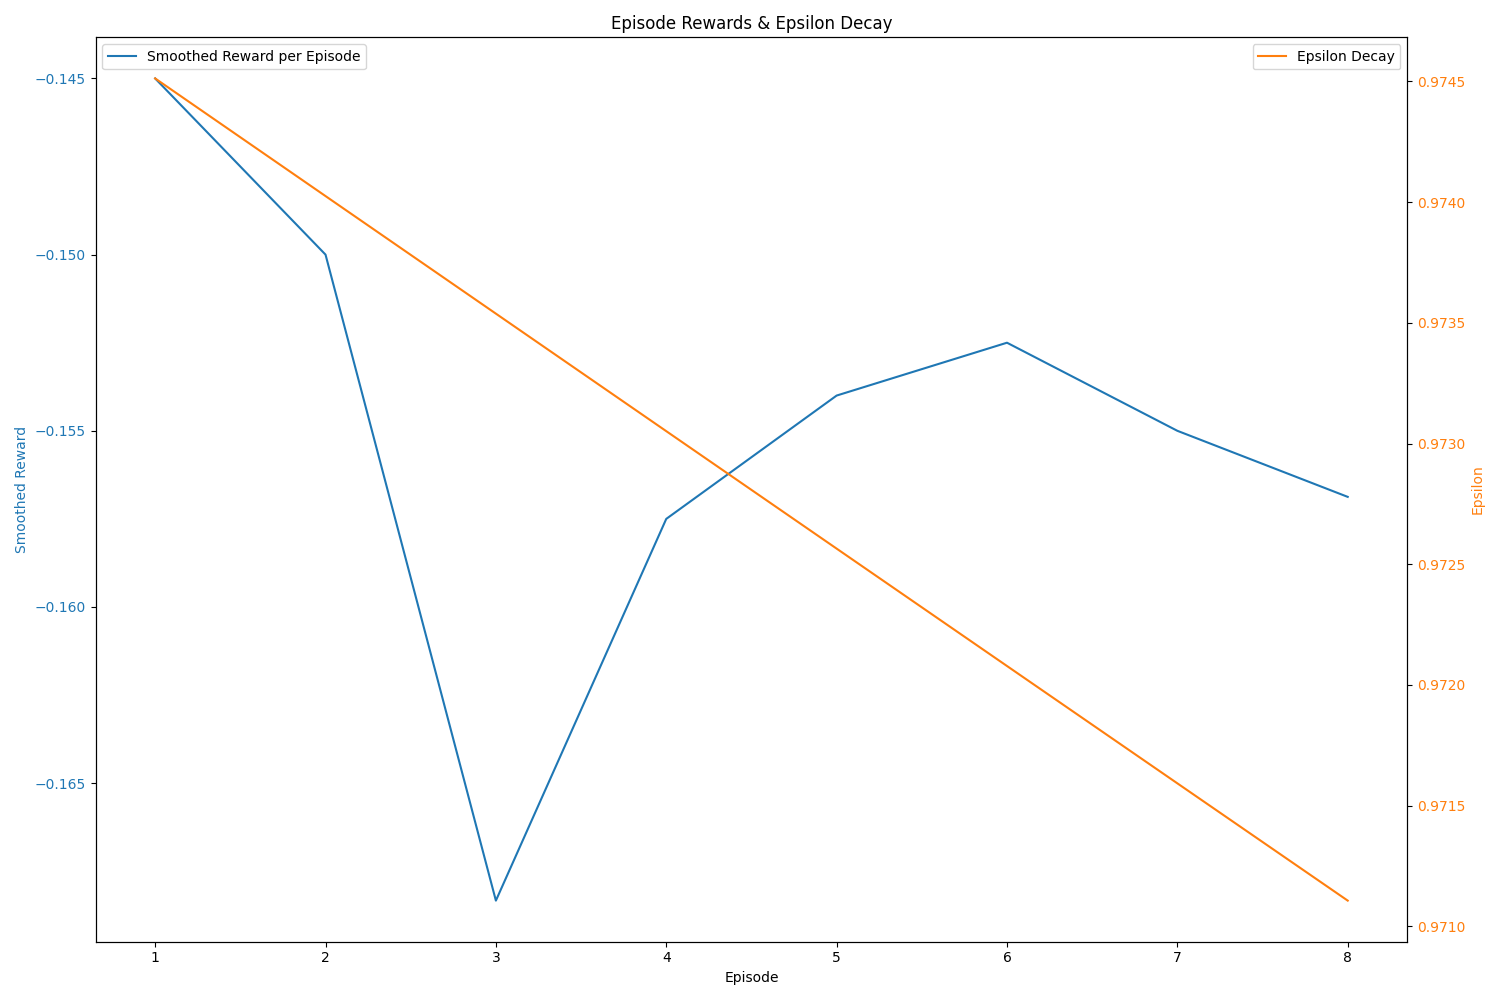
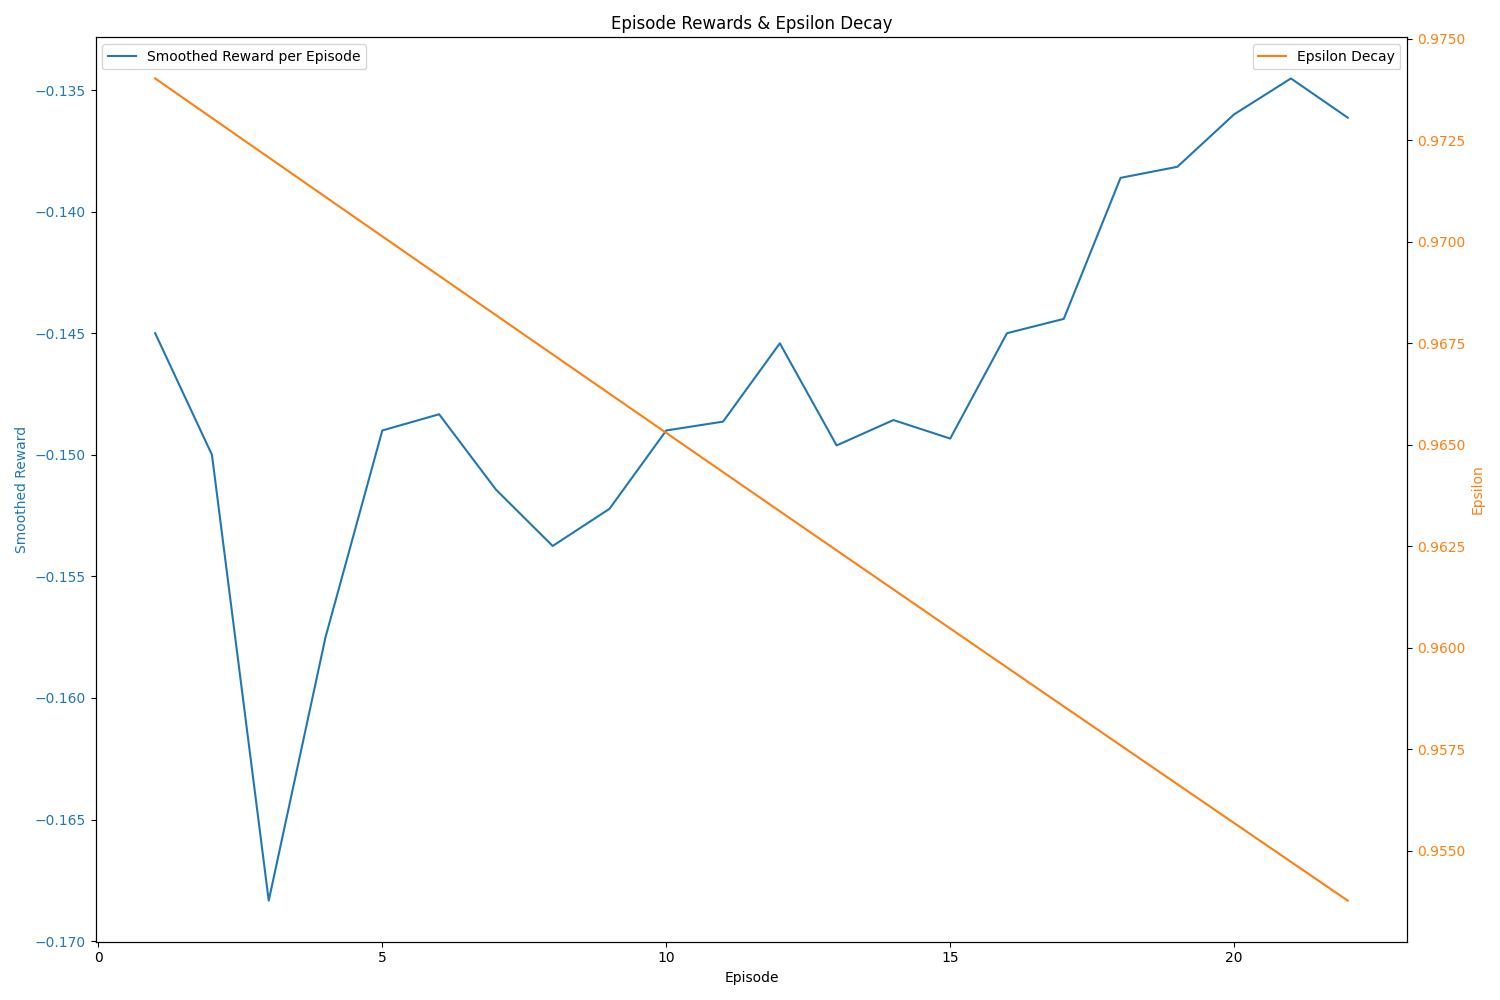
env utils

diff --git a/sumo_mmrl/environment/env.py b/sumo_mmrl/environment/env.py
@@ -8,10 +8,10 @@ from .ride_select import RideSelect
 from .outmask import OutMask
 from .bus_stop import StopFinder
 from .observation import Observation
-from .vehicle_manager import VehicleManager  # Import VehicleManager
-from .person_manager import PersonManager # Import PersonManager
+from .vehicle_manager import VehicleManager 
+from .person_manager import PersonManager 
 from .reward_calculator import RewardCalculator
-from .utils import Utils
+from .env_utils import Utils
 from .step_manager import StepManager
 
 
@@ -31,16 +31,12 @@ class Env:
             path + sumocon
         )
 
-
         self.ride_selector = RideSelect()  
         self.edge_position = (
             self.parser.get_edge_pos_dic()
-        )  # This creates the x y positions of all the lanes
-
+        )  
         self.sumo = None  
-        
         self.path = path  
-
         self.steps = 0
         self.agent_step = 0
         self.accumulated_reward = 0
@@ -50,23 +46,14 @@ class Env:
         self.old_dist = None
         self.rewards = []
         self.epsilon_hist = []
-
         self.vehicle = None
         self.person = None
-
         self.p_index = 0
         self.distcheck = 0
-
-        self.edge_distance = None  # manhatten distance to destination
-
-        self.destination_edge = None  # changes for each stage destination goal
-
-        self.num_of_vehicles = num_of_vehic  # number community
-        # vehicles to select from
-
-        self.types = types  # types of passangers
-        # and vehicles to pair for a trip
-        # self.parser.get_route_edges()
+        self.edge_distance = None
+        self.destination_edge = None
+        self.num_of_vehicles = num_of_vehic
+        self.types = types
         self.stage = "reset"
         self.bussroute = self.parser.get_route_edges()
         self.life = 20
@@ -113,12 +100,9 @@ class Env:
 
     
     def step(self, action, validator):
-        '''next step for environment'''
 
         self.steps = int(self.sumo.simulation.getTime())
         self.agent_step += 1
-
-        # Using StepManager for null steps
         self.make_choice_flag, self.old_edge = self.step_manager.null_step(self.vehicle, self.make_choice_flag, self.old_edge)
 
         if self.life <= 0:
@@ -133,27 +117,22 @@ class Env:
             vedge_loc[0], vedge_loc[1], dest_edge_loc[0], dest_edge_loc[1]
         )
 
-        # Calculate reward
         self.reward, self.make_choice_flag, self.distcheck, self.life = self.reward_calculator.calculate_reward(
             self.old_dist, edge_distance, self.stage, self.destination_edge, vedge, self.make_choice_flag, self.life)
 
         if validator == 1:
             if self.make_choice_flag:
-                # Using StepManager to perform action
                 self.best_choice = self.step_manager.perform_step(self.vehicle, action, self.destination_edge)
                 self.make_choice_flag = False
                 self.life -= 1
 
-            # Update stage using StageManager
             self.stage, self.destination_edge = self.stage_manager.update_stage(
                 self.stage, self.destination_edge, vedge, self.person
             )
 
             choices = self.vehicle.get_out_dict()
-
             dest_loc = self.edge_position[self.destination_edge]
             state = self.obs.get_state(self.sumo,self.agent_step, self.vehicle, dest_loc, self.life, self.distcheck)
-
             self.old_edge = vedge
             self.old_dist = edge_distance
             return state, self.reward, self.stage, choices
@@ -163,12 +142,8 @@ class Env:
         self.stage = "done"
         self.reward = -0.15
         self.make_choice_flag = False
-
         dest_loc = self.edge_position[self.destination_edge]
-
         state = self.obs.get_state(self.sumo,self.agent_step, self.vehicle, dest_loc, self.life, self.distcheck)
-
-
         self.accumulated_reward += self.reward
         return state, self.reward, self.stage, choices
 
@@ -197,7 +172,7 @@ class Env:
         self.epsilon_hist.append(current_epsilon)
 
         avg_reward = np.mean(self.rewards[-100:])
-        smoothed_rewards = self.smooth_data(self.rewards, 100)
+        smoothed_rewards = Utils.smooth_data(self.rewards, 100)
 
         print_info = {
             "EP": episode,
@@ -211,38 +186,11 @@ class Env:
 
         x = list(range(1, len(self.rewards) + 1))
         file_name = self.path + "/Graphs/sumo-agent.png"
-        self.plotter.plot_learning(x, smoothed_rewards, self.epsilon_hist, file_name)
+        Utils.plot_learning_curve(x, smoothed_rewards, self.epsilon_hist, file_name)
+        # self.plotter.plot_learning(x, smoothed_rewards, self.epsilon_hist, file_name)
         return avg_reward
-    def smooth_data(self, data, window_size):
-        """Smooth data using a simple moving average."""
-        if not data: return []
-
-        smoothed = []
-        running_total = 0
-        non_numeric_count = 0
-
-        for i, value in enumerate(data):
-            if value is not None:
-                running_total += value
-            else:
-                non_numeric_count += 1
-
-            if i >= window_size:
-                if data[i - window_size] is not None:
-                    running_total -= data[i - window_size]
-                else:
-                    non_numeric_count -= 1
-
-            count = min(i + 1, window_size) - non_numeric_count
-            if count > 0:
-                smoothed.append(running_total / count)
-            else:
-                smoothed.append(None)  # or some default/fallback value
-
-        if non_numeric_count > 0:
-            print(f"Warning: Found {non_numeric_count} non-numeric values. Some smoothing results may be None.")
-
-        return smoothed
+    
+   
     
     def get_steps_per_episode(self):
         return self.sumo.simulation.getTime()

diff --git a/sumo_mmrl/environment/env_utils.py b/sumo_mmrl/environment/env_utils.py
@@ -1,0 +1,103 @@
+import numpy as np
+import matplotlib.pyplot as plt
+import os
+
+class Utils:
+    @staticmethod
+    def manhattan_distance(x1, y1, x2, y2):
+        """
+        Calculate the Manhattan distance between two points.
+
+        :param x1: X-coordinate of the first point.
+        :param y1: Y-coordinate of the first point.
+        :param x2: X-coordinate of the second point.
+        :param y2: Y-coordinate of the second point.
+        :return: Manhattan distance between the points.
+        """
+        return abs(x1 - x2) + abs(y1 - y2)
+
+    @staticmethod
+    def smooth_data(data, window_size):
+        """
+        Smooth data using a simple moving average.
+
+        :param data: The input data to smooth.
+        :param window_size: The number of data points to consider for the moving average.
+        :return: Smoothed data.
+        """
+        if not data:
+            return []
+
+        smoothed = []
+        running_total = 0
+        non_numeric_count = 0
+
+        for i, value in enumerate(data):
+            if value is not None:
+                running_total += value
+            else:
+                non_numeric_count += 1
+
+            if i >= window_size:
+                if data[i - window_size] is not None:
+                    running_total -= data[i - window_size]
+                else:
+                    non_numeric_count -= 1
+
+            count = min(i + 1, window_size) - non_numeric_count
+            if count > 0:
+                smoothed.append(running_total / count)
+            else:
+                smoothed.append(None)
+
+        if non_numeric_count > 0:
+            print(f"Warning: Found {non_numeric_count} non-numeric values. Some smoothing results may be None.")
+
+        return smoothed
+
+    @staticmethod
+    def plot_learning_curve(x, rewards, epsilons, file_name):
+        """
+        Plot the learning curve of the agent.
+
+        :param x: Episodes or time steps.
+        :param rewards: List of rewards per episode or time step.
+        :param epsilons: List of epsilon values per episode or time step.
+        :param file_name: Path to save the plot.
+        """
+        fig, ax1 = plt.subplots(figsize=(15, 10))
+
+        # Shared X-axis for all plots
+        shared_x = np.arange(1, len(x) + 1)
+
+        # Plot Smoothed Rewards on the primary y-axis
+        color = 'C0'
+        ax1.plot(shared_x, rewards, label="Smoothed Reward per Episode", color=color)
+        ax1.set_xlabel('Episode')
+        ax1.set_ylabel('Smoothed Reward', color=color)
+        ax1.tick_params(axis='y', labelcolor=color)
+
+        # Create a twin y-axis to plot Epsilon Decay
+        ax2 = ax1.twinx()
+        color = 'C1'
+        ax2.plot(shared_x, epsilons, label="Epsilon Decay", color=color)
+        ax2.set_ylabel('Epsilon', color=color)
+        ax2.tick_params(axis='y', labelcolor=color)
+
+        ax1.set_title('Episode Rewards & Epsilon Decay')
+        ax1.legend(loc='upper left')
+        ax2.legend(loc='upper right')
+
+        plt.tight_layout()
+        plt.savefig(file_name)
+        plt.close()
+
+    @staticmethod
+    def ensure_directory_exists(directory):
+        """
+        Ensure that a directory exists. If it doesn't, create it.
+
+        :param directory: Path of the directory to check.
+        """
+        if not os.path.exists(directory):
+            os.makedirs(directory)
